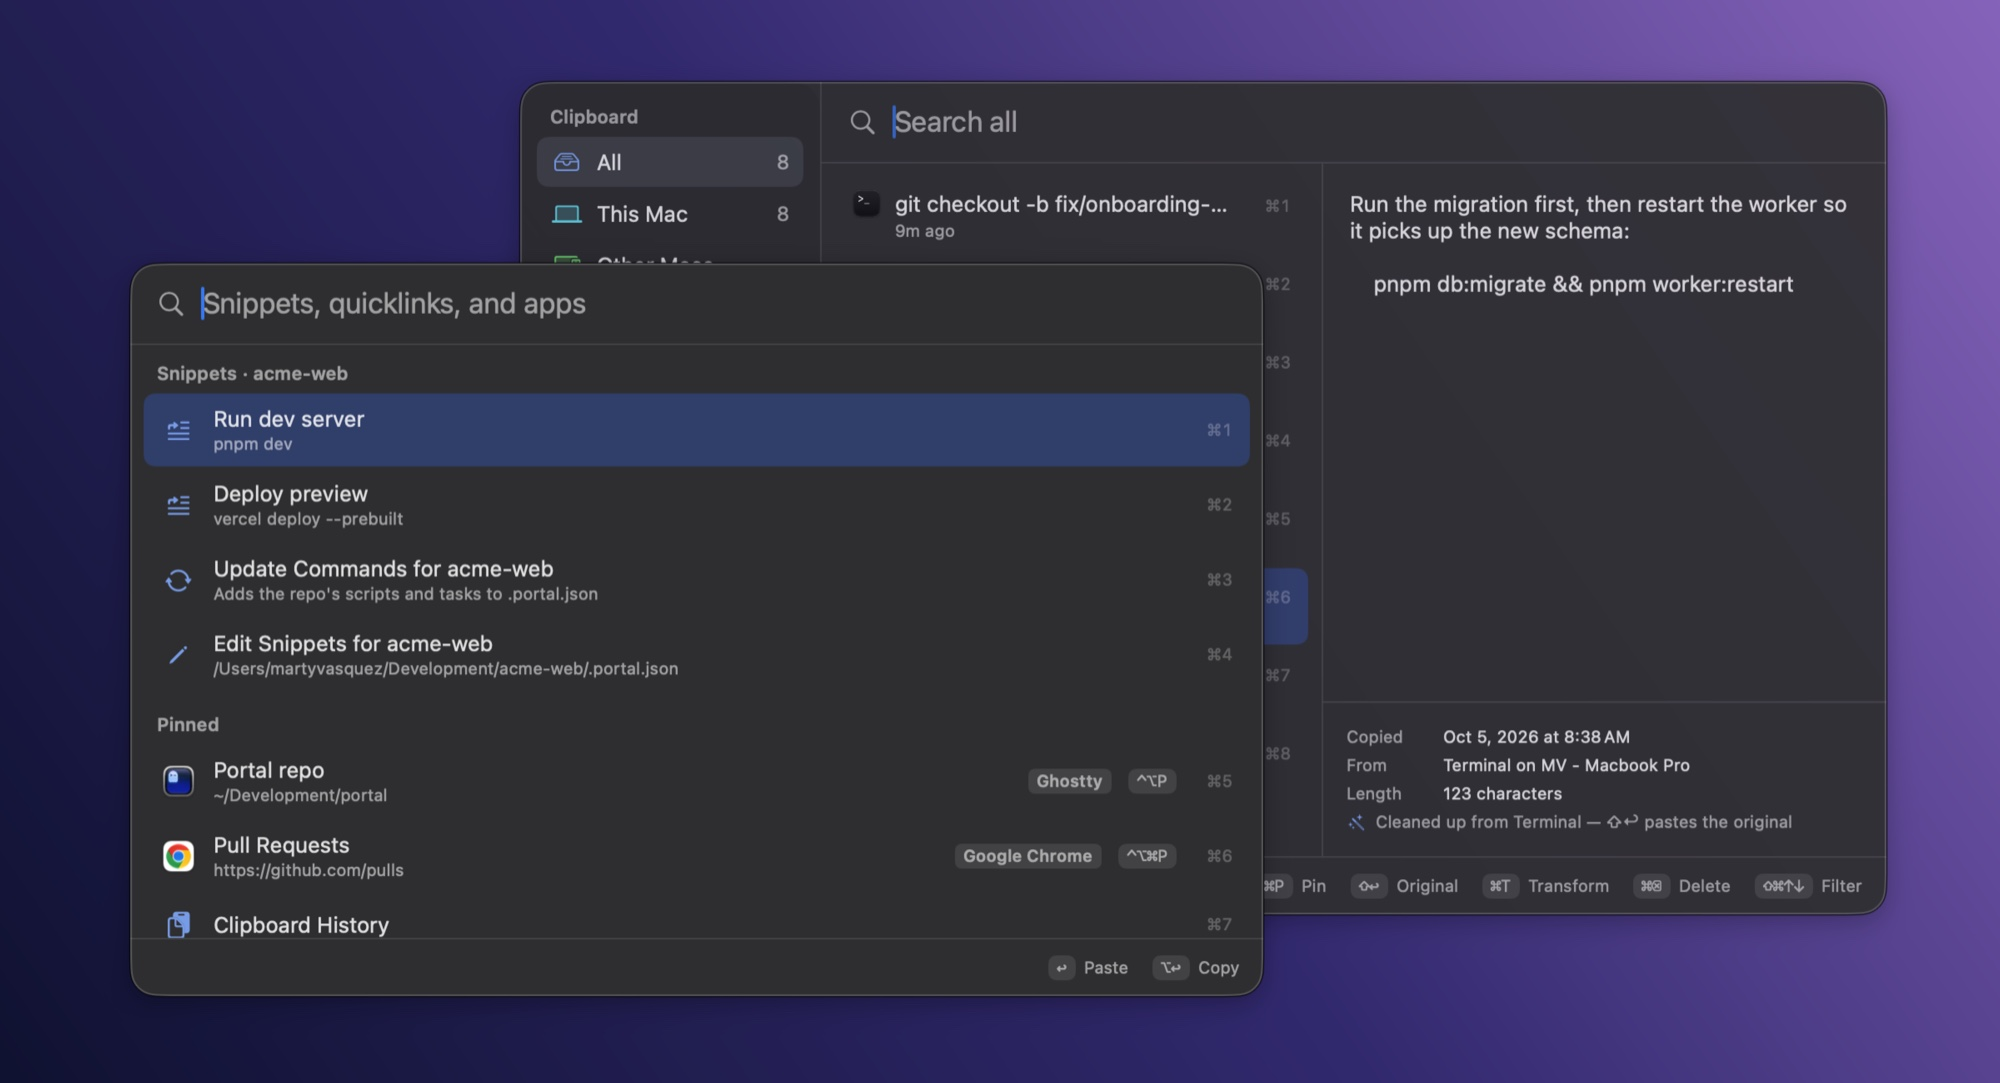
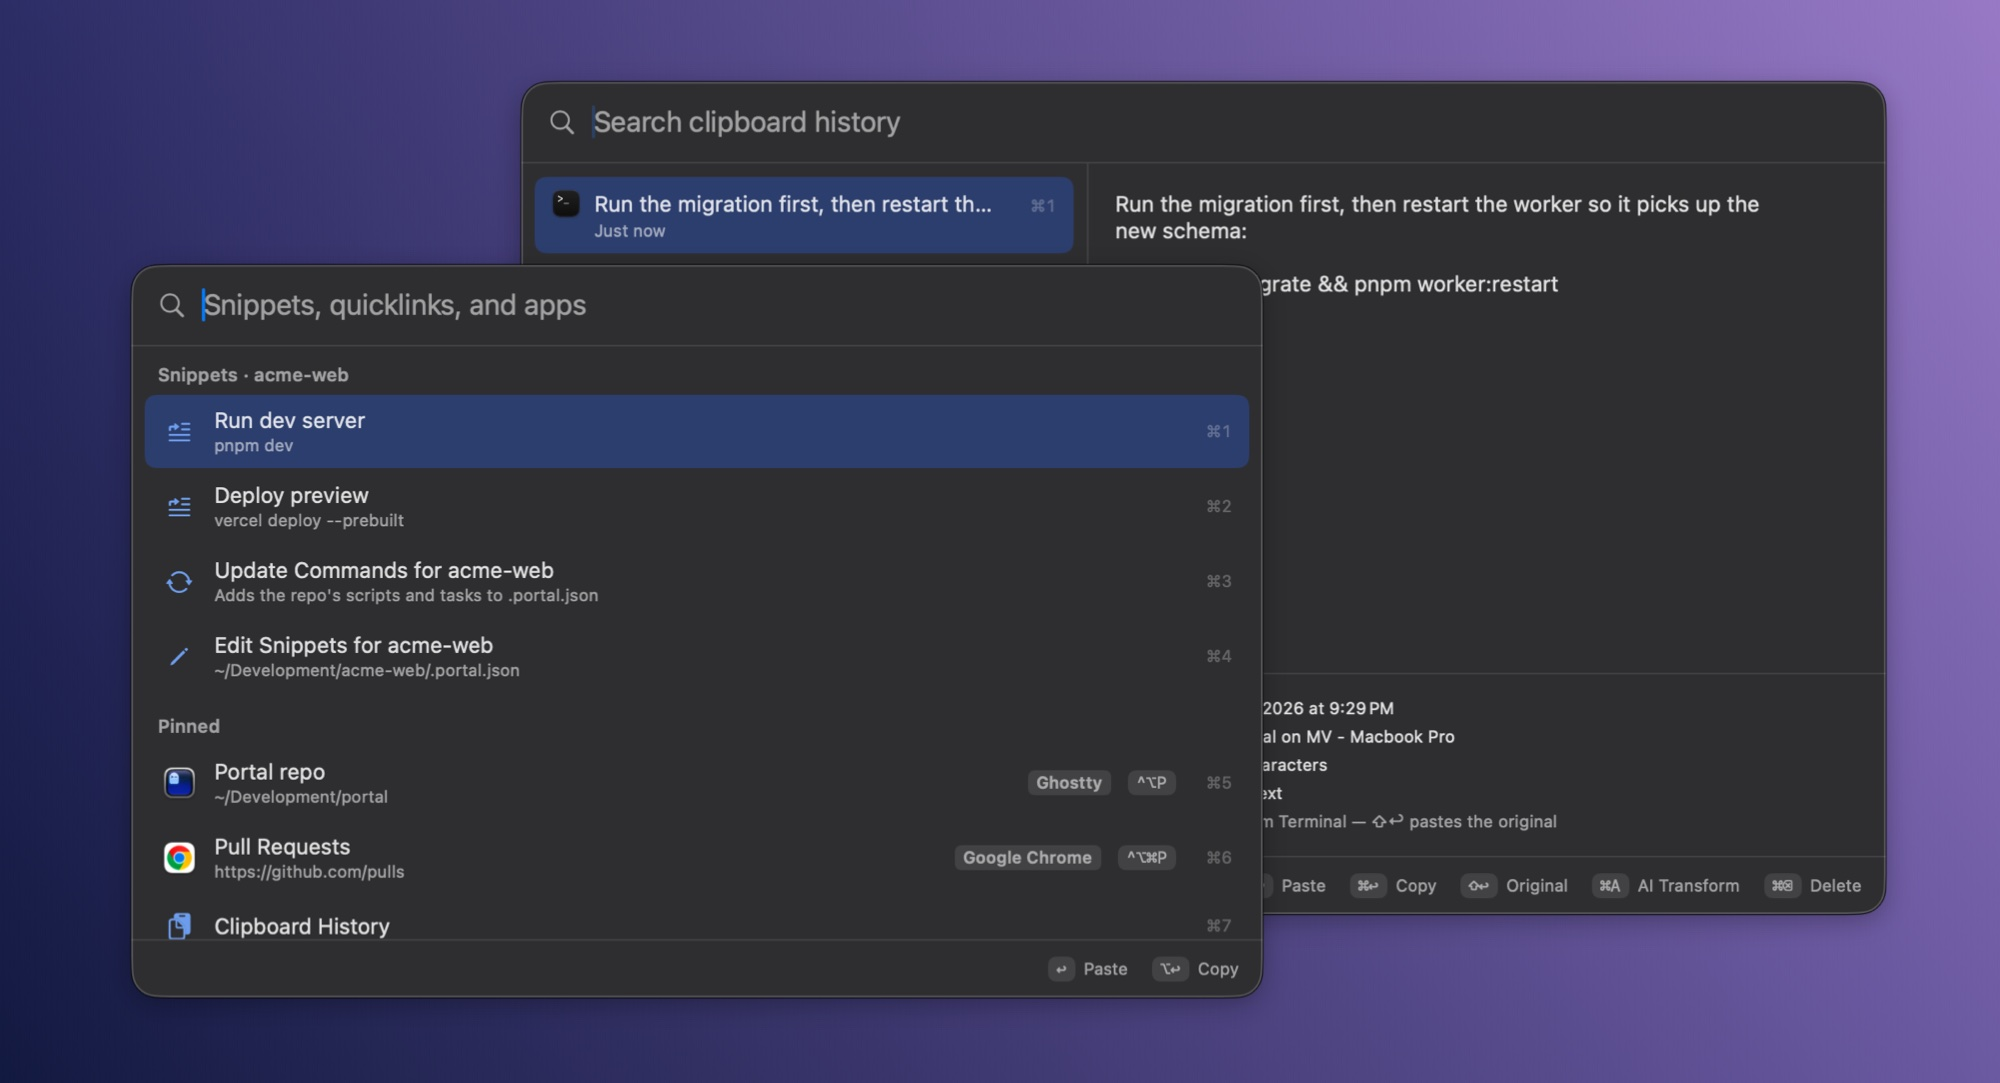
Docs: screenshots of the new clipboard and AI transformers
Retakes the clipboard, hero, launcher transformer, and settings screenshots
with the new UI. Taking them turned up three fixes: indented lines alone
(terminal output) no longer count as Markdown, and the Clipboard and AI
Transformers settings no longer mention pins or ⌘T.

Claude-Session: https://claude.ai/code/session_01TEfqFs1cr7qysg5PF5WHEr

diff --git a/Sources/Portal/RichText.swift b/Sources/Portal/RichText.swift
@@ -73,7 +73,7 @@ enum RichText {
         guard let body = renderHTML(markdown),
               // Raw HTML in the text is dropped from the rendering; the plain text is better than losing it.
               !body.contains("<!-- raw HTML omitted -->"),
-              hasFormatting(body) else { return nil }
+              hasFormatting(body, backticks: markdown.contains("`") || markdown.contains("~~~")) else { return nil }
         return body
     }
 
@@ -187,8 +187,11 @@ enum RichText {
         return String(cString: html)
     }
 
-    /// True when the HTML has any tag besides paragraphs and line breaks.
-    nonisolated private static func hasFormatting(_ html: String) -> Bool {
-        html.matches(of: #/<\/?([a-zA-Z][a-zA-Z0-9]*)/#).contains { !["p", "br"].contains($0.1.lowercased()) }
+    /// True when the HTML has any tag besides paragraphs and line breaks. Code counts only when the
+    /// text marked it with backticks or a fence: indented lines alone (terminal output, pasted code)
+    /// aren't Markdown.
+    nonisolated private static func hasFormatting(_ html: String, backticks: Bool) -> Bool {
+        let plain: Set<String> = backticks ? ["p", "br"] : ["p", "br", "pre", "code"]
+        return html.matches(of: #/<\/?([a-zA-Z][a-zA-Z0-9]*)/#).contains { !plain.contains($0.1.lowercased()) }
     }
 }

diff --git a/Sources/Portal/SettingsAI.swift b/Sources/Portal/SettingsAI.swift
@@ -67,7 +67,7 @@ struct TransformersPage: View {
 
             HStack(alignment: .firstTextBaseline, spacing: 6) {
                 Image(systemName: "lightbulb").foregroundStyle(.yellow)
-                Text("Select text in any app, then open the launcher: transformers come first, in this order (drag to reorder). Type **transform** and a prompt for a one-off, or press **⌘T** on a clip in clipboard history.")
+                Text("Select text in any app, then open the launcher: transformers come first, in this order (drag to reorder). Type **transform** and a prompt for a one-off, or press **⌘A** on a clip in clipboard history.")
             }
             .font(.caption)
             .foregroundStyle(.secondary)

diff --git a/Sources/Portal/SettingsView.swift b/Sources/Portal/SettingsView.swift
@@ -1391,7 +1391,7 @@ private struct ClipboardPage: View {
                 } header: {
                     Text("Pasting")
                 } footer: {
-                    Text("⌘Return does the other one. Pinned clips (⌘P) never expire.").font(.caption).foregroundStyle(.secondary)
+                    Text("⌘Return does the other one. ⌘F, ⌘M, and ⌘P paste a clip formatted, as Markdown, or as plain text.").font(.caption).foregroundStyle(.secondary)
                 }
 
                 Section {

diff --git a/Tests/PortalTests/PortalTests.swift b/Tests/PortalTests/PortalTests.swift
@@ -755,6 +755,9 @@ import AppKit
         #expect(gmail.formatName == "Formatted")
 
         #expect(!clip("## Key", secret: true).offers(.formatted))
+        // Indented lines from a terminal aren't Markdown; backtick code is.
+        #expect(!clip("Run the migration first:\n\n    pnpm db:migrate").offers(.formatted))
+        #expect(clip("Run `pnpm db:migrate` first").offers(.formatted))
     }
 
     @Test func oldTransformersAndClipsStillDecode() throws {

diff --git a/README.md b/README.md
@@ -185,7 +185,7 @@ Turn it off in Settings → General → Calculator.
 ChatGPT. Select text in any app and open the launcher: your transformers come first.
 
 <p align="center">
-  <img src="docs/images/transformers.png" width="49%" alt="The launcher offering Polish, Summarize, Clean Up JSON, and Convert to Markdown for selected text">
+  <img src="docs/images/transformers.png" width="49%" alt="The launcher offering the Polish, Summarize, and Clean Up JSON AI transformers for selected text">
   <img src="docs/images/transform-preview.png" width="49%" alt="The Polish transformer's result shown above the original selection">
 </p>
 
@@ -223,7 +223,7 @@ like `Format this for an email with a bulleted summary`. To only change formatti
 - **Model**: the newest model your ChatGPT account offers, at low thinking so it's quick. Change it in Settings → ChatGPT, or per transformer.
 
 <p align="center">
-  <img src="docs/images/settings-transformers.png" width="80%" alt="Transformers settings listing each transformer with its scope, action, and hotkey">
+  <img src="docs/images/settings-transformers.png" width="80%" alt="AI Transformers settings listing each transformer with its scope, paste format, action, and hotkey">
 </p>
 
 **Signing in.** AI transformers run on your **ChatGPT Plus or Pro** plan through *Sign in with ChatGPT*, so
@@ -270,7 +270,7 @@ Press **⇧⌘V**. Portal keeps text, links, images, and files for 7 days by def
 and which Mac each clip came from.
 
 <p align="center">
-  <img src="docs/images/clipboard.png" width="80%" alt="Clipboard history with text, links, a file, an image, a terminal command, and a masked secret">
+  <img src="docs/images/clipboard.png" width="80%" alt="Clipboard history with a formatted email from Notes selected, offering to paste it as Markdown or plain text">
 </p>
 
 - **Secrets**: copies from password managers, plus anything that looks like an API key, token, or private key (OpenAI, Stripe, GitHub, AWS, Slack, Google, JWTs, PEM keys, …). They're masked in the list, can expire sooner, and are marked so other clipboard tools skip them.
